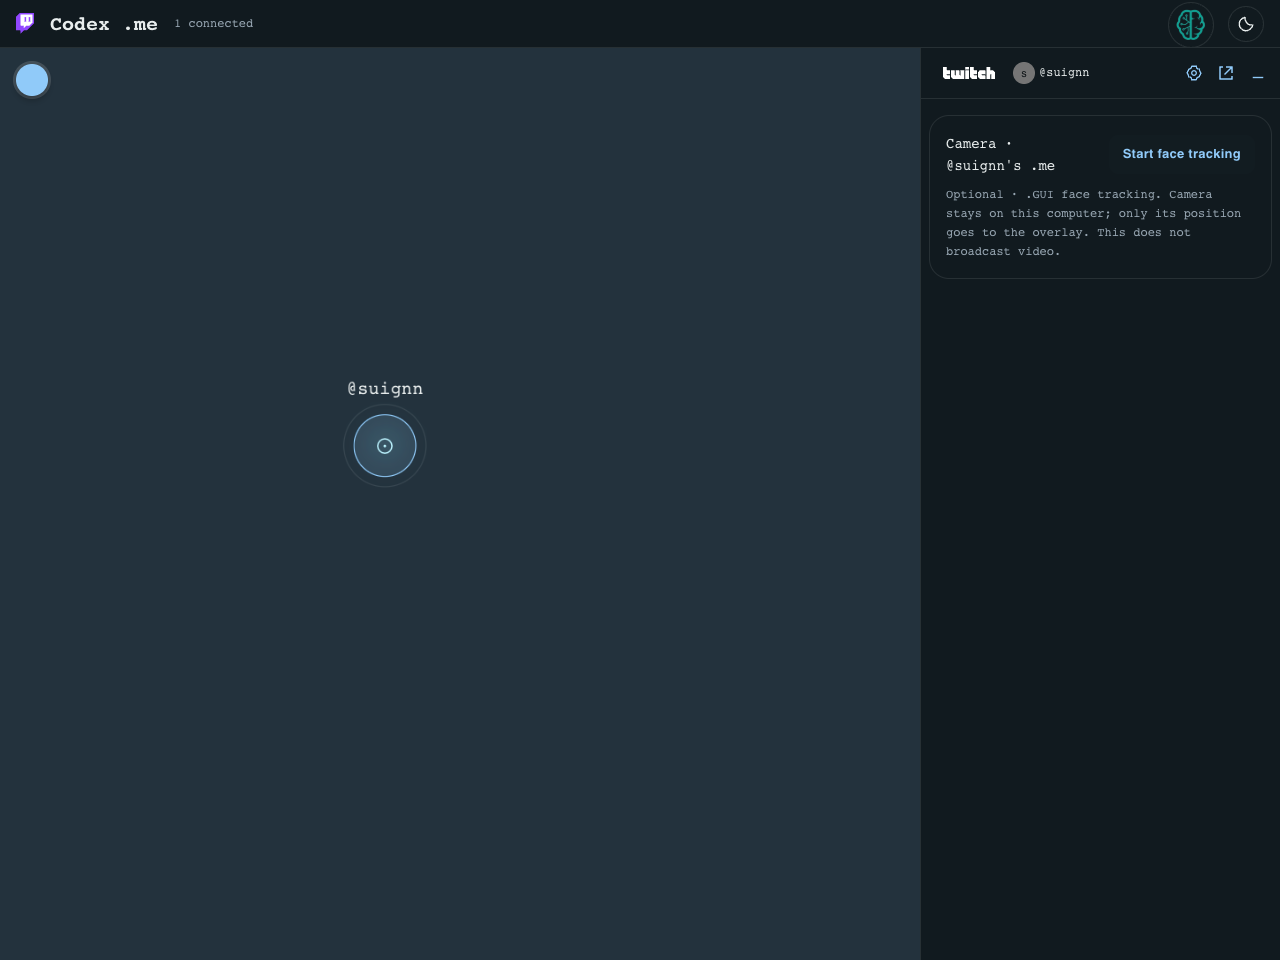
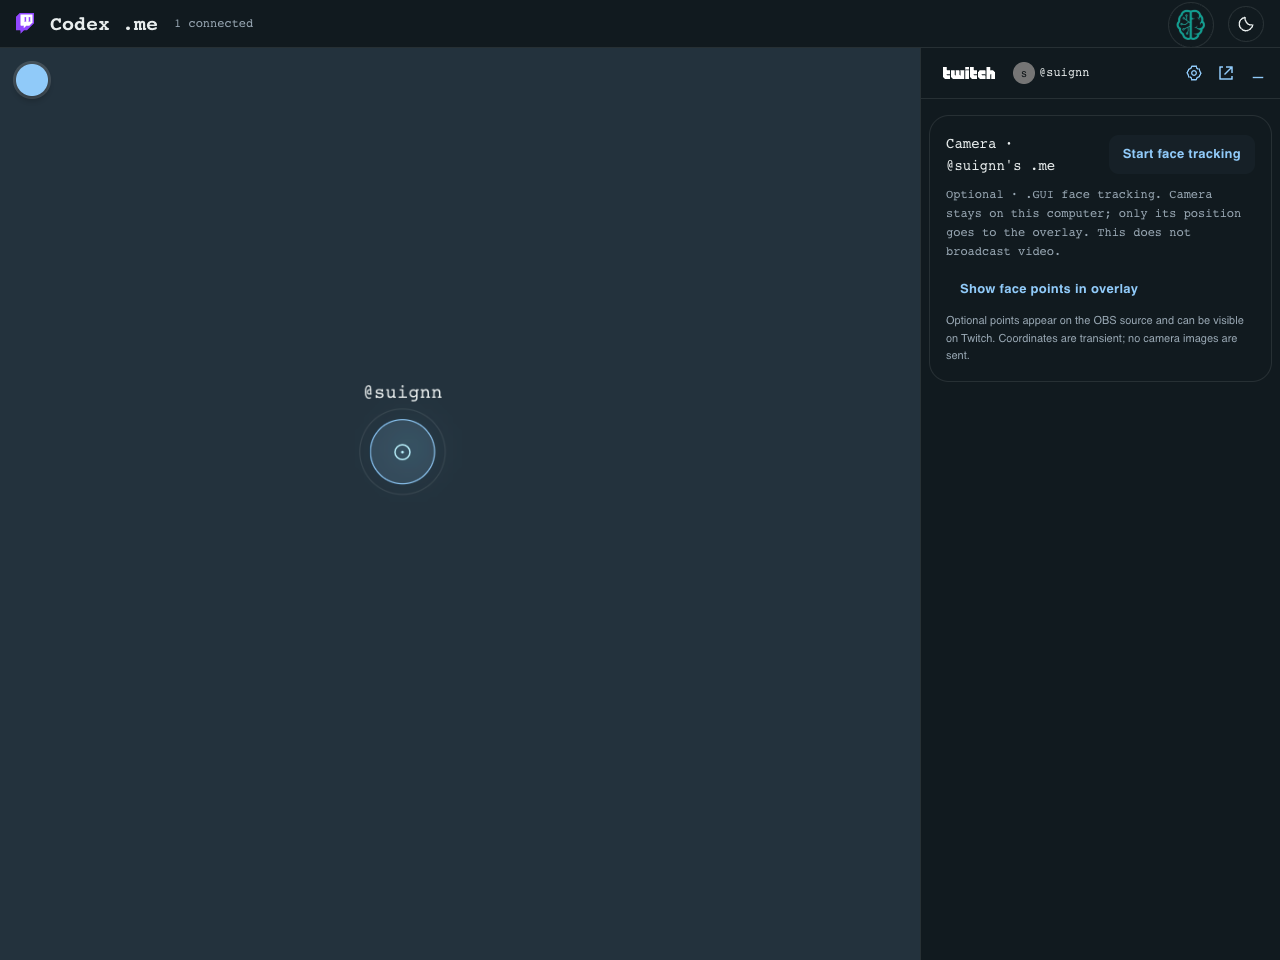
feat: show optional face tracking dots on OBS overlay

Changed region(s): [[0.75, 0.2812, 0.9688, 0.375], [0.25, 0.375, 0.3438, 0.5]]

diff --git a/ui/face-tracking.js b/ui/face-tracking.js
@@ -6,21 +6,25 @@ export function FaceTracking({ csrf, authed, owner }) {
   const [enabled, setEnabled] = R.useState(false), [stream, setStream] = R.useState(null);
   const [error, setError] = R.useState(''), [relayError, setRelayError] = R.useState(''), [hasFace, setHasFace] = R.useState(false);
   const video = R.useRef(null), canvas = R.useRef(null), busy = R.useRef(null), published = R.useRef(false);
-  const lastAnchor = R.useRef(0);
+  const lastAnchor = R.useRef(0), lastPosition = R.useRef(null), points = R.useRef([]), pointsEnabled = R.useRef(false);
+  const [showPoints, setShowPoints] = R.useState(false);
+  const capturePoints = R.useCallback(value => {
+    points.current = Array.isArray(value) ? value.filter((p, i) => i % 4 === 0 && Number.isFinite(p.x) && Number.isFinite(p.y) && p.x >= 0 && p.x <= 1 && p.y >= 0 && p.y <= 1).slice(0, 128).map(p => [Number(p.x.toFixed(4)), Number(p.y.toFixed(4))]) : [];
+  }, []);
   const epoch = R.useRef(0), activeStream = R.useRef(null);
   const { faceLandmarker, faceLandmarkerLoading, faceLandmarkerError } = useFaceLandmarker({ enabled });
   const send = R.useCallback(async anchor => {
     // Landmarks can leave the camera frame; never submit invalid positions.
     const v = video.current;
     if (anchor && (!v?.videoWidth || !v?.videoHeight || !Number.isFinite(anchor.x) || !Number.isFinite(anchor.y) || anchor.x < 0 || anchor.x > 1 || anchor.y < 0 || anchor.y > 1)) return;
-    lastAnchor.current = performance.now();
+    lastAnchor.current = performance.now(); lastPosition.current = anchor;
     if (!anchor && !published.current) return;
     if (busy.current && anchor) return;
     if (!anchor) await busy.current;
     published.current = !!anchor;
     let finish; busy.current = new Promise(resolve => { finish = resolve; });
     try {
-      const value = anchor ? { x: anchor.x, y: anchor.y, aspect: v.videoWidth / v.videoHeight } : { x: null, y: null };
+      const value = anchor ? { x: anchor.x, y: anchor.y, aspect: v.videoWidth / v.videoHeight, ...(pointsEnabled.current ? { points: points.current } : {}) } : { x: null, y: null };
       const response = await fetch('/api/face', { method: 'POST', headers: { 'Content-Type': 'application/json', 'X-CSRF-Token': csrf }, body: JSON.stringify(value), signal: AbortSignal.timeout(2500), keepalive: !anchor });
       if (response.ok) setRelayError('');
       else if (response.status !== 429) setRelayError(response.status === 403 ? 'Tracking session expired. Reload the demo.' : response.status === 401 ? 'Reconnect Twitch to resume tracking.' : 'Camera position disconnected. Retrying…');
@@ -30,7 +34,7 @@ export function FaceTracking({ csrf, authed, owner }) {
   useFaceOverlay({ enabled: !!stream && !!faceLandmarker && !faceLandmarkerError, canvasRef: canvas, getVideoEl, faceLandmarker,
     faceLandmarkerLoading, faceLandmarkerError, variant: 'modal', mirrorPreview: false, detectThrottleMs: 150,
     noFaceMissesToClear: 4, noFaceGraceMs: 600, minFaceHoldMs: 0,
-    showMeshConnections: true, meshStep: 4, onHasFaceChange: setHasFace, onHudAnchor: send });
+    showMeshConnections: true, meshStep: 4, onHasFaceChange: setHasFace, onPoints: capturePoints, onHudAnchor: send });
   // Keep using GUI's model. A low-rate track snapshot recovers when browser
   // rAF/video playback pauses; no new camera capture and no images leave this page.
   R.useEffect(() => {
@@ -51,6 +55,7 @@ export function FaceTracking({ csrf, authed, owner }) {
         else if (element.paused || element.readyState < 2) return;
         if (disposed || activeStream.current !== stream) return;
         const result = faceLandmarker.detectForVideo(frame || element, performance.now());
+        capturePoints(result?.faceLandmarks?.[0]);
         const point = result?.faceLandmarks?.[0]?.[10];
         setHasFace(!!point);
         void send(point ? { x: point.x, y: point.y } : null);
@@ -59,7 +64,7 @@ export function FaceTracking({ csrf, authed, owner }) {
     };
     const timer = setInterval(tick, 1000);
     return () => { disposed = true; clearInterval(timer); };
-  }, [enabled, stream, faceLandmarker, faceLandmarkerError, send]);
+  }, [enabled, stream, faceLandmarker, faceLandmarkerError, send, capturePoints]);
   const stop = R.useCallback(() => {
     epoch.current++; activeStream.current?.getTracks().forEach(track => track.stop()); activeStream.current = null;
     setStream(null); setEnabled(false); setHasFace(false); setRelayError(''); void send(null);
@@ -86,6 +91,8 @@ export function FaceTracking({ csrf, authed, owner }) {
       h(Button, { size: 'small', disabled: !authed, onClick: enabled ? stop : start }, enabled ? 'Stop tracking' : 'Start face tracking')),
     h(Typography, { role: 'status', sx: { fontFamily: 'monospace', fontSize: 12, color: error || relayError || faceLandmarkerError ? 'error.main' : 'text.secondary', mt: 1 } },
       error || relayError || (faceLandmarkerError ? 'Could not load the .GUI face tracker. Check CDN access.' : !enabled ? 'Optional · .GUI face tracking. Camera stays on this computer; only its position goes to the overlay. This does not broadcast video.' : !stream ? 'Waiting for camera access… Allow the browser camera prompt.' : faceLandmarkerLoading ? 'Loading .GUI face tracker…' : hasFace ? 'Face found · .me companion follows you' : 'Looking for a face…')),
+    h(Button, { size: 'small', disabled: !authed, 'aria-pressed': showPoints, onClick: () => { const next = !showPoints; pointsEnabled.current = next; setShowPoints(next); if (lastPosition.current) void send(lastPosition.current); }, sx: { mt: 1 } }, showPoints ? 'Hide face points in overlay' : 'Show face points in overlay'),
+    h(Typography, { sx: { fontSize: 11, color: 'text.secondary', mt: .5 } }, 'Optional points appear on the OBS source and can be visible on Twitch. Coordinates are transient; no camera images are sent.'),
     enabled ? h(Box, { sx: { position: 'relative', width: '100%', maxWidth: 640, aspectRatio: '16 / 9', bgcolor: '#000', mt: 1, overflow: 'hidden' } },
       h('video', { ref: video, autoPlay: true, playsInline: true, muted: true, 'aria-label': 'Local tracking camera', style: { width: '100%', height: '100%', objectFit: 'contain' } }),
       h('canvas', { ref: canvas, 'aria-label': 'GUI face landmarks', style: { position: 'absolute', inset: 0, width: '100%', height: '100%', pointerEvents: 'none' } })) : null,

diff --git a/overlay/spiders.js b/overlay/spiders.js
@@ -83,6 +83,12 @@ function Kernel({ kernel, index, count, selected, onSelect, face }) {
         h(G.Monad, { kind: 'me', variant: 'bubble', mode: 'contained', seed: kernel.owner, label: `@${kernel.owner} · .me`, solid: true, core: 'flat', ring: 1, tooltip: false }))),
     h('text', { 'data-me-label': kernel.owner, y: -34, textAnchor: 'middle', style: { ...mono, fontSize: 12, fill: 'currentColor' } }, `@${kernel.owner}`)));
 }
+function FacePoints({ face }) {
+  if (!face?.points?.length) return null;
+  const width = Math.min(1920, 1080 * face.aspect), height = Math.min(1080, 1920 / face.aspect);
+  return h('g', { 'data-face-points': true, pointerEvents: 'none', 'aria-hidden': true, fill: '#5fffc9', stroke: '#072f29', strokeWidth: .8 },
+    face.points.map(([x, y], index) => h('circle', { key: index, cx: (1920 - width) / 2 + x * width, cy: (1080 - height) / 2 + y * height, r: 2.4 })));
+}
 function App() {
   const [kernels, setKernels] = React.useState([]), [connected, setConnected] = React.useState(false), [selected, select] = React.useState(null);
   const [bubbleAnchor, setBubbleAnchor] = React.useState(null);
@@ -179,6 +185,7 @@ function App() {
   const scene = h(Box, { component: 'main', sx: { minWidth: 0, minHeight: 0, height: '100%', position: 'relative', color: 'text.primary' } },
     h(SceneTint, { transparent }),
     h('svg', { id: 'kernels-scene', onClick: event => { if (event.target === event.currentTarget) { select(null); setBubbleAnchor(null); } }, viewBox: '0 0 1920 1080', width: '100%', height: '100%', role: 'img', 'aria-label': 'Community kernels', style: { display: 'block', position: 'relative' } },
+      h(FacePoints, { face }),
       kernels.map((kernel, index) => h(Kernel, { key: kernel.id, kernel, index, count: kernels.length, selected: selected === kernel.id, face, onSelect: event => openKernel(kernel, event.currentTarget) }))),
     !transparent && current && bubbleAnchor ? h(BubbleNavigation, { anchor: bubbleAnchor, kernel: current, path, selectPath, onClose: () => setBubbleAnchor(null) }) : null,
     !transparent && !kernels.length ? h(Box, { sx: { position: 'absolute', inset: 0, display: 'grid', placeContent: 'center', textAlign: 'center', px: 2, pointerEvents: 'none' } },

diff --git a/README.md b/README.md
@@ -110,7 +110,7 @@ Run `CHROME="/Applications/Google Chrome.app/Contents/MacOS/Google Chrome" CHECK
 
 ## Optional face tracking
 
-In the demo, open **Settings → Face tracking**. **Start face tracking** requests the local camera; **Stop tracking** releases it. Existing GUI `useFaceLandmarker`/`useFaceOverlay` hooks publish a face anchor. The owner's .me bubble follows beside it with an offset, 280 ms eased travel, gentle CSS drift and a subtle halo; side switching uses a wide threshold to avoid jitter. Reduced-motion preferences disable drift and easing, and the hit area stays fixed while the visual floats. Foreground detection runs locally at about six checks/second; only transient `{x,y,aspect}` goes to the loopback server with origin/CSRF/session checks. No images, audio or identity templates are uploaded or persisted. If GUI frame callbacks stall, a watchdog reuses the same model at most once per second. On supported browsers, `ImageCapture.grabFrame()` reads the existing authorized video track into a temporary local ImageBitmap, which is closed after detection; it opens no second camera. Other browsers fall back to the video element. Local relay requests time out after 2.5 seconds rather than holding the sending lock indefinitely. The demo must remain open. Camera controls stay mounted when switching to Twitch, Inspector or OBS, so changing panels does not stop tracking. Stream setup links here instead of opening a separate camera. No face verification endpoint is called. Hook source, hashes, license and reproducible build instructions are under `ui/vendor/face/` and `tools/build-face-vendor.mjs` (TypeScript 5.9.3).
+In the demo, open **Settings → Face tracking**. **Start face tracking** requests the local camera; **Stop tracking** releases it. Existing GUI `useFaceLandmarker`/`useFaceOverlay` hooks publish a face anchor. The owner's .me bubble follows beside it with an offset, 280 ms eased travel, gentle CSS drift and a subtle halo; side switching uses a wide threshold to avoid jitter. Reduced-motion preferences disable drift and easing, and the hit area stays fixed while the visual floats. Foreground detection runs locally at about six checks/second; only transient `{x,y,aspect}` (plus optional display points when enabled) goes to the loopback server with origin/CSRF/session checks. No images, audio or identity templates are uploaded or persisted. If GUI frame callbacks stall, a watchdog reuses the same model at most once per second. On supported browsers, `ImageCapture.grabFrame()` reads the existing authorized video track into a temporary local ImageBitmap, which is closed after detection; it opens no second camera. Other browsers fall back to the video element. Local relay requests time out after 2.5 seconds rather than holding the sending lock indefinitely. The demo must remain open. Camera controls stay mounted when switching to Twitch, Inspector or OBS, so changing panels does not stop tracking. Stream setup links here instead of opening a separate camera. No face verification endpoint is called. Hook source, hashes, license and reproducible build instructions are under `ui/vendor/face/` and `tools/build-face-vendor.mjs` (TypeScript 5.9.3).
 
 The mapping assumes the same camera centered and fitted inside OBS's 1920×1080 canvas, without crop or mirroring. Custom camera transforms are not calibrated. The local browser has reported a ready 640×360 camera, Face found, and an active face-follow bubble after reconnecting. Visual alignment with an actual OBS camera composition remains unverified; synthetic checks are not live broadcast evidence. Camera access and model/WASM downloads depend on browser permissions and network availability. Loading media without a camera stream is displayed as waiting for camera access. Motion and paused-preview recovery are covered by the synthetic camera check, including stalled rAF, a deliberately paused video element, fresh relay updates, reduced-motion and stopping the camera. A successful relay update clears transient connection errors; invalid or out-of-frame landmarks are not submitted. The local camera preview does not broadcast video or add a camera source to OBS. To show a face on Twitch, add that camera in OBS alongside the transparent overlay and start streaming there.
 
@@ -155,3 +155,9 @@ The transparent kernel source keeps its logical 1920×1080 SVG viewBox but fits 
 The circle at the scene's top left uses the new GUI **OverlaySwatch** source. Drag horizontally for hue and vertically for opacity; double-click restores the current theme color. Initial opacity is 18%. Only the scene is tinted; the chat, navigation and inspector remain untouched. The transparent source paints the same alpha layer without showing its editing circle. Settings are saved per GUI theme/mode and synchronize between tabs sharing browser storage. OBS uses its own browser storage: this is not a server relay of tint settings to OBS.
 
 Only this small GUI component is included under `ui/vendor/overlay-swatch/`, with original TS/TSX, hashes, MIT licenses and explicit browser/theme adapters. The main GUI remains 4.2.1; the kernel is unchanged. Rebuild with `node tools/build-overlay-swatch.mjs /path/to/typescript/lib/typescript.js /path/to/esbuild/lib/main.js` using TypeScript 5.9.3 and esbuild 0.28.1. The pure MUI color utility is bundled; no second React or theme provider is mounted.
+
+### Face points on the overlay
+
+In **Settings → Face tracking**, enable **Show face points in overlay** and start tracking. The optional dots are drawn in both the web scene and the transparent OBS source, so they can appear in the broadcast. Disable them with **Hide face points in overlay**. They follow the same contained, unmirrored camera mapping as the companion; keep OBS framing aligned.
+
+The existing GUI tracker supplies the real landmarks; only every fourth valid point is sampled (at most 128 normalized x/y pairs), rounded to four decimals, and relayed with the face anchor. The server enforces the point count, coordinate bounds, 8KB body limit and existing Origin/CSRF/auth/rate checks. Points expire with the face snapshot after two seconds and are never written to disk or added to kernels. No image, face template or identity recognition is sent. The toggle is off initially.

diff --git a/evidence/SESSION.md b/evidence/SESSION.md
@@ -636,3 +636,9 @@ The real transparent source had no console errors and contained the owner bubble
 Included the actual new GUI4.2.3 OverlaySwatch source with provenance/license, rather than migrating Channel or StreamStage. React uses existing globals; the theme bridge reads actual GUI palette CSS variables and observes theme updates. A pure MUI color utility is bundled; GUI/kernel pins remain unchanged. The scene alone receives an alpha tint (initial18%); transparent output hides the editing circle. Same-browser storage events synchronize saved tint choices between tabs; OBS's separate browser profile is not synchronized by a server relay.
 
 Verified in actual localhost browser: native slider appears; horizontal/vertical drag changes hue/opacity; double-click returns data-theme-default=true; dark/light mode changes the tint; shared-storage transparent tab updates its tint while its slider remains hidden. Saved screenshot outside the repository. Synthetic GUI face/OBS integration passes, including unchanged logical mapping and camera stop behavior. No real chat messages, broadcast actions or backend restart.
+
+### 2026-10-29 — Optional face dots in the broadcast overlay
+
+Added Show/Hide face points in overlay to the existing face controls (off by default). GUI onPoints supplies real landmarks; the existing fallback also samples its real model output. Every fourth valid point is rounded and bounded to128 pairs; no additional detector/camera is started. The authenticated loopback face endpoint accepts optional points with strict shape/count/coordinate validation and an8KB limit. Points are transient with the existing two-second face expiry and are drawn as noninteractive SVG dots using the contained camera mapping in both web and OBS views. No points are written to kernels or storage.
+
+Synthetic integration verified default absence,117 received dots at the correct logical480/432 position, hide removing them, panel switching preserving the camera, fallback recovery, stop and validation rejecting malformed/oversize points. The old fixed2.2-second fallback check was changed to await an actual successful response within10 seconds after one loaded-machine timing failure. All10 original tests pass. Restarted only the confirmed codex-me node server on3017; health is authenticated/EventSub connected. OBS itself was not stopped and no broadcast/chat actions were sent; its in-app control connection needs reconnection. Real browser controls verified in a temporary tab without starting a second real camera; the already active camera tab was left untouched and therefore still requires a frontend reload to use the new toggle. Refresh the OBS Browser source for the new renderer.
